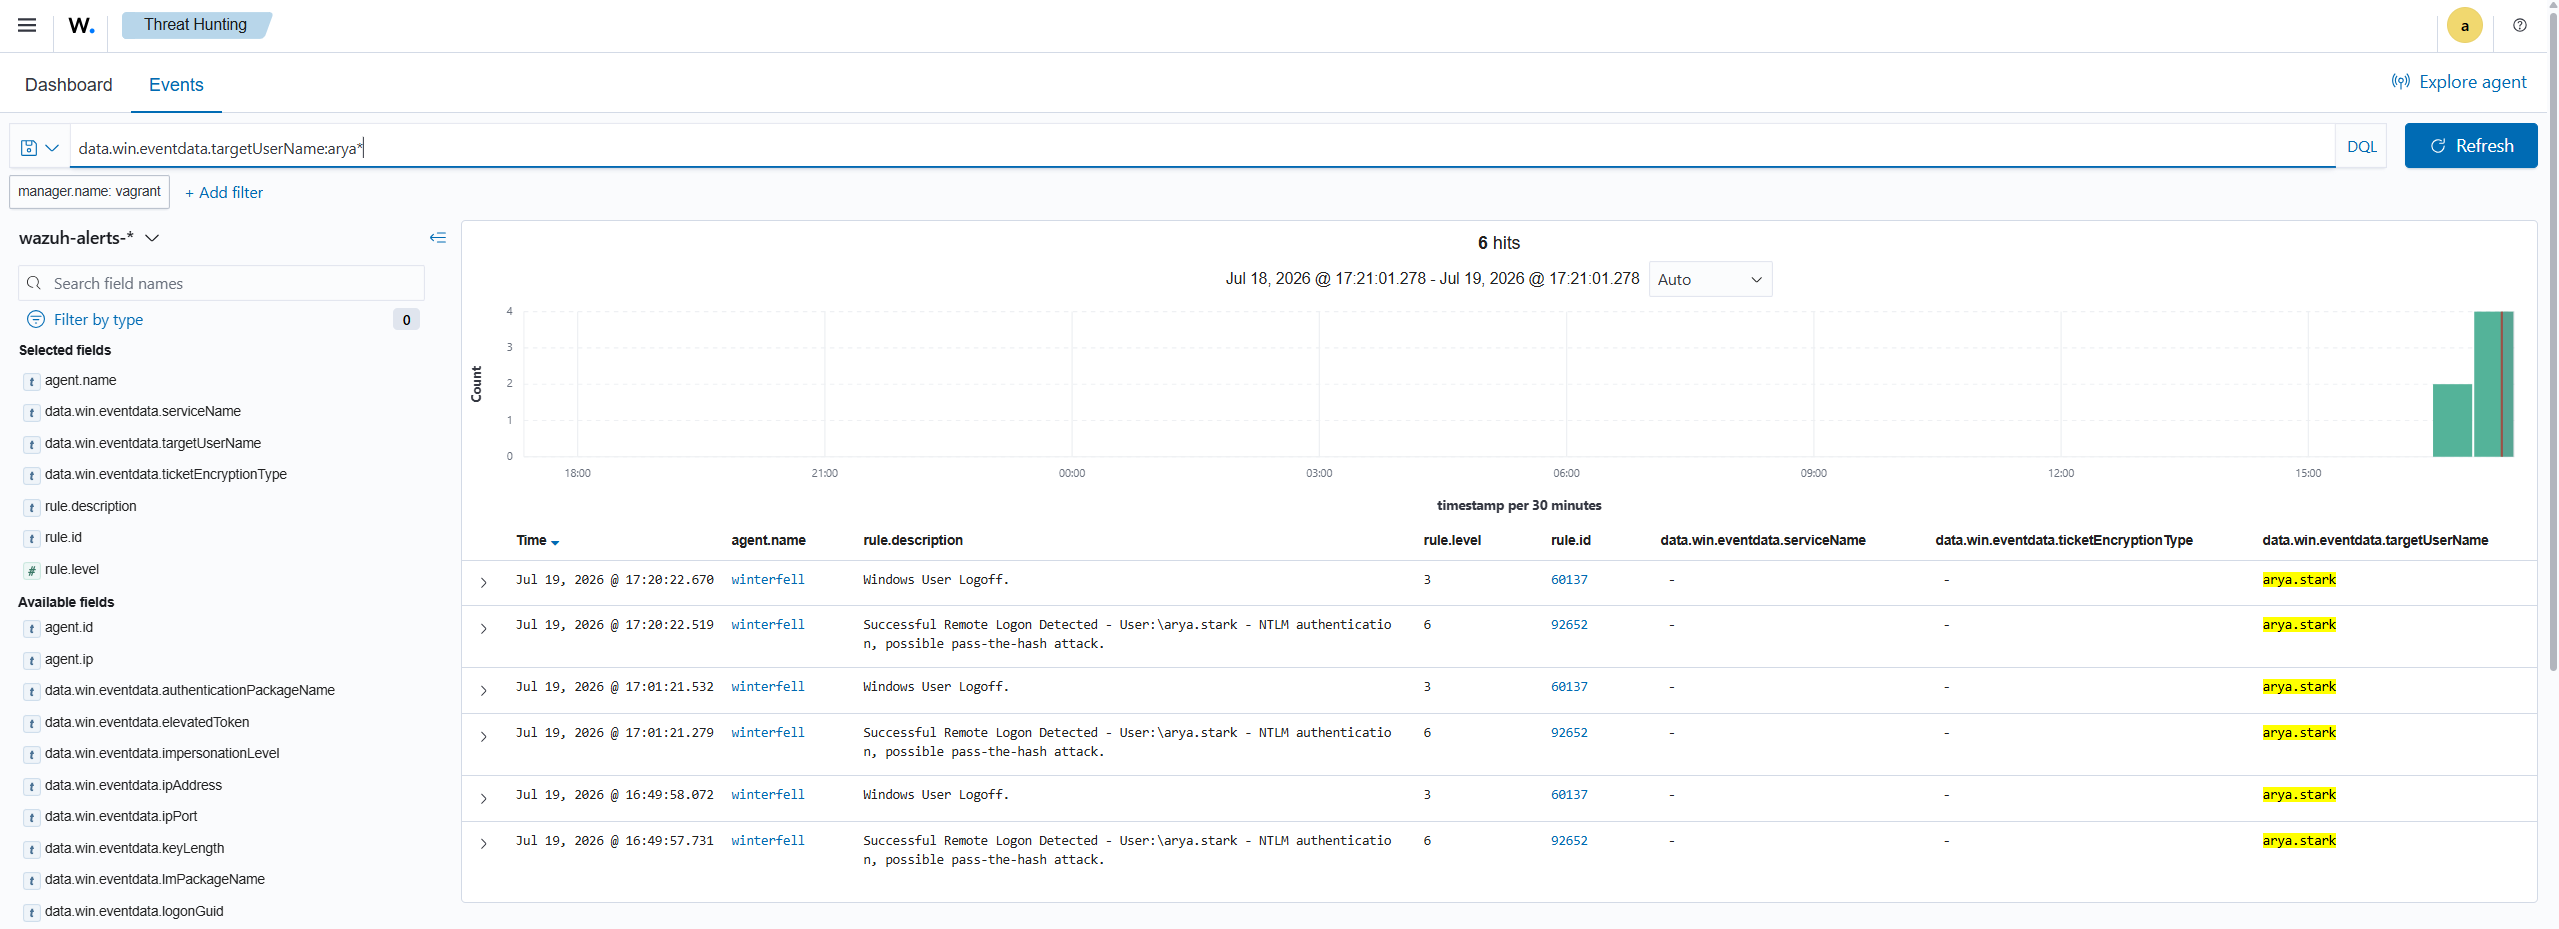
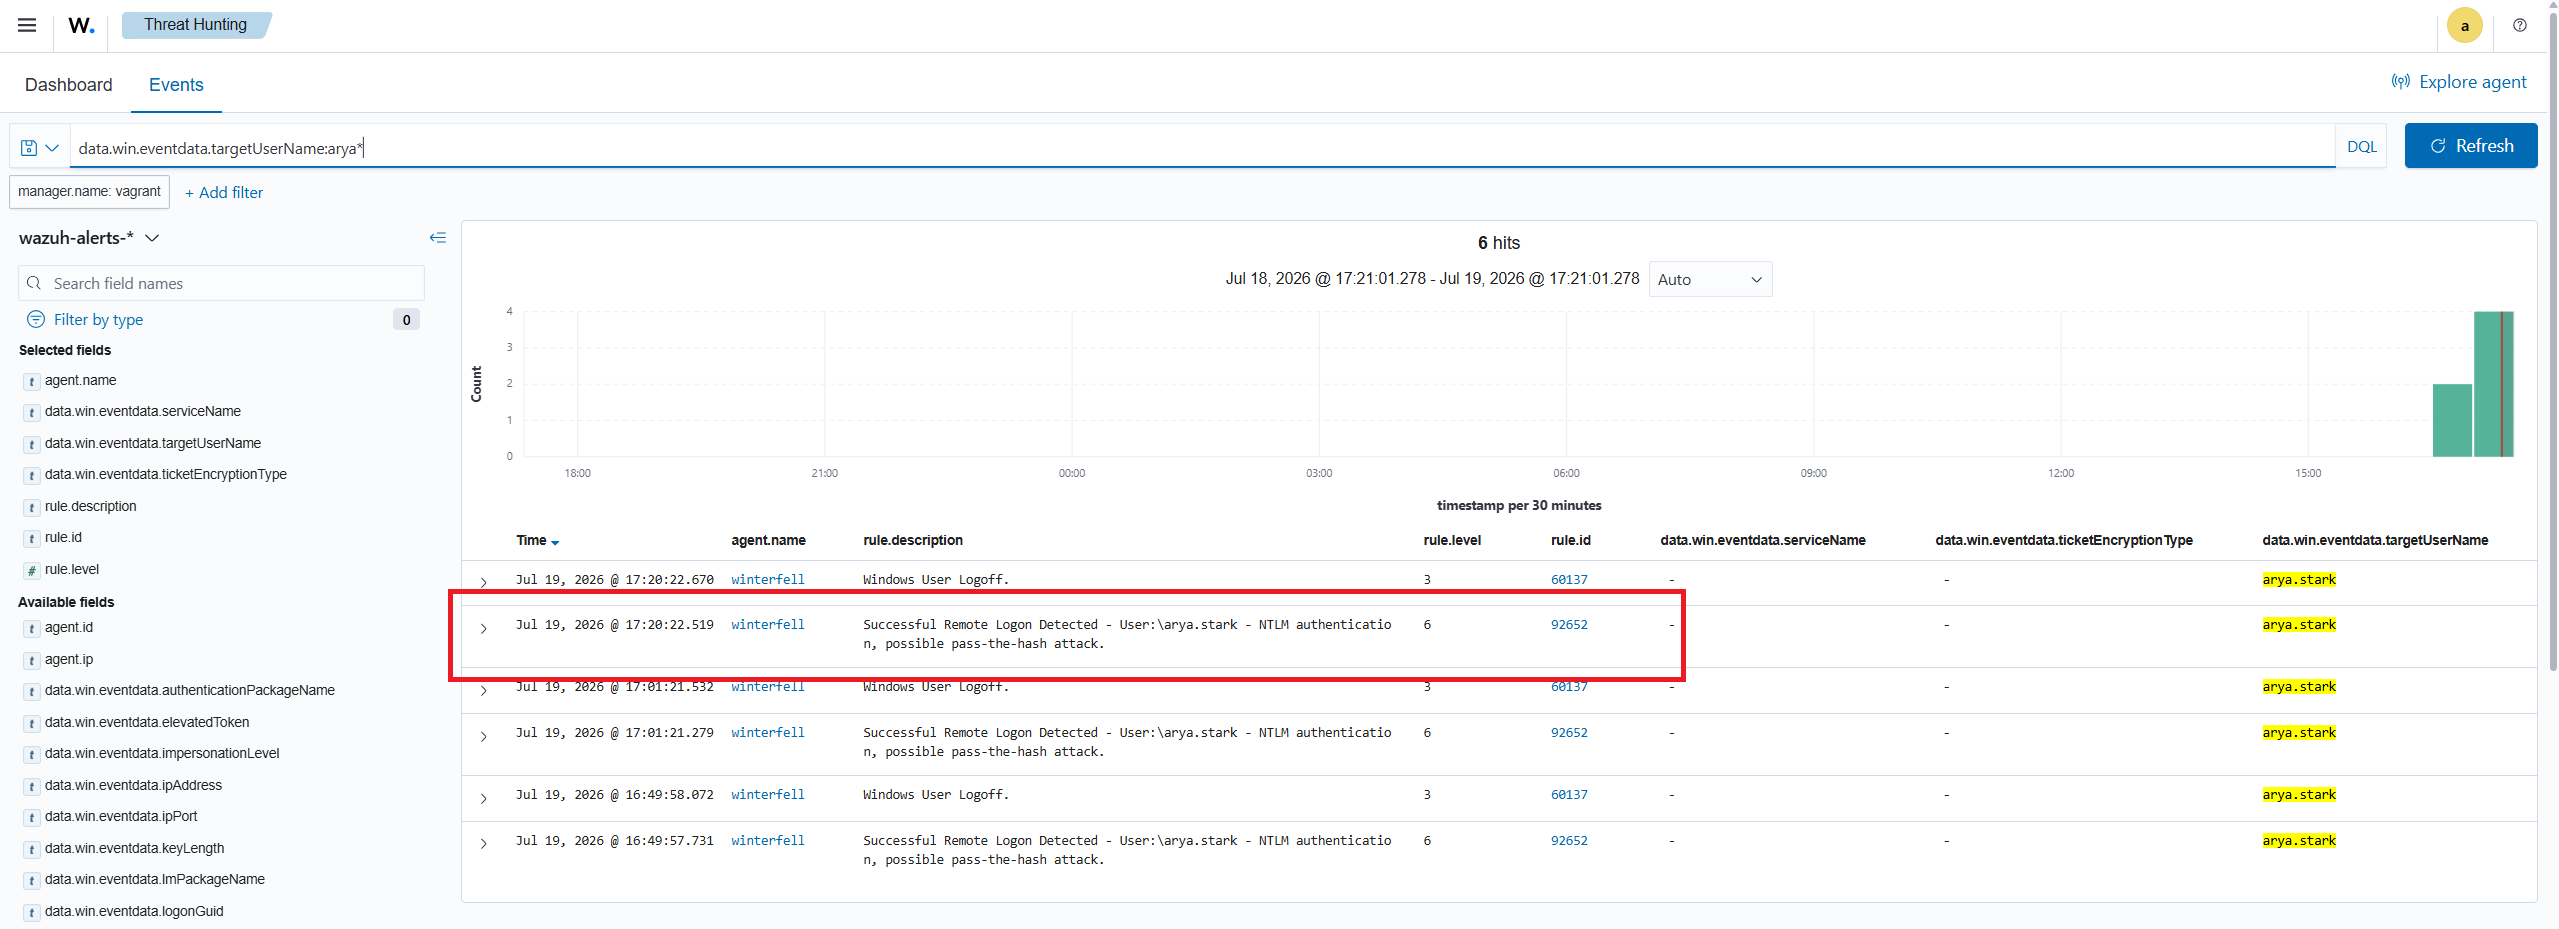
Add Phase 4 attack 02: AS-REP Roasting (detection blind spot)
- New simulation/attaques/02-asrep-roasting.md: AS-REP Roasting via impacket
  GetNPUsers against brandon.stark (DONT_REQ_PREAUTH). Documents a detection
  blind spot: no 4768 events reach Wazuh (Kerberos Auth Service audit not
  enabled), so the attack is invisible by default. Lesson + Phase 5 fix noted.
- Add attack-02 command screenshot; refresh attack-01 Wazuh screenshot.
- Update index: attack 02 = simulated, detection = blind spot.

Changed region(s): [[0.1852, 0.718, 0.6483, 0.7492], [0.1852, 0.6243, 0.6483, 0.6555]]

diff --git a/simulation/attaques/02-asrep-roasting.md b/simulation/attaques/02-asrep-roasting.md
@@ -1,0 +1,91 @@
+# ⚔ Attaque 02 — AS-REP Roasting
+
+| | |
+|---|---|
+| **Catégorie** | Credential Access |
+| **MITRE ATT&CK** | [T1558.004](https://attack.mitre.org/techniques/T1558/004/) |
+| **Fiche théorique** | [`../../docs/02-credential-access/`](../../docs/02-credential-access/) |
+| **Cible** | `north.sevenkingdoms.local` (DC02 / winterfell · 192.168.56.11) |
+| **Compte attaquant** | `arya.stark` (pour l'énumération) |
+| **Compte vulnérable** | `brandon.stark` (pré-authentification désactivée) |
+| **Statut détection Wazuh** | ⚠ **ANGLE MORT** — non détecté par défaut |
+
+---
+
+## 1. 🧠 Description (en clair)
+
+Normalement, pour obtenir son ticket d'entrée Kerberos (TGT), un compte doit d'abord **prouver qu'il connaît son mot de passe** : c'est la **pré-authentification** (il chiffre l'heure courante avec son mot de passe). Ce mécanisme est le "cadenas" qui empêche de demander des infos sur un compte sans le connaître.
+
+Certains comptes ont l'option **`DONT_REQ_PREAUTH`** activée → le cadenas saute. **N'importe qui, sans mot de passe**, peut alors demander leur TGT, et le contrôleur renvoie un message (**AS-REP**) contenant un bloc **chiffré avec le mot de passe du compte**. L'attaquant le récupère et le **crack hors-ligne**.
+
+> Différence avec le Kerberoasting : ici on ne cible pas des comptes de service (SPN), mais des comptes ayant **oublié le cadenas** — et l'attaque peut se faire **sans aucun identifiant**.
+
+---
+
+## 2. 💻 Exécution de l'attaque
+
+Outil impacket **`GetNPUsers.py`** (« NP » = *No Preauth*) :
+
+```bash
+GetNPUsers.py north.sevenkingdoms.local/arya.stark:Needle -dc-ip 192.168.56.11 -request
+```
+
+### Résultat
+Un compte vulnérable trouvé, hash extrait :
+
+| Compte | UAC | Indice |
+|--------|-----|--------|
+| `brandon.stark` | `0x410200` | le flag `0x400000` = **`DONT_REQ_PREAUTH`** (pré-auth désactivée) |
+
+Hash obtenu au format `$krb5asrep$23$...` → le **`23`** = **RC4** = crackable hors-ligne (`hashcat -m 18200`).
+
+![Exécution de l'AS-REP Roasting — compte brandon.stark et hash $krb5asrep$](../screenshots/attacks/attack-02-asrep-command.png)
+
+---
+
+## 3. 🛡 Détection dans Wazuh — ⚠ ANGLE MORT
+
+La signature propre de l'AS-REP Roasting est un **Event `4768`** (demande de TGT) avec **`preAuthType = 0`** (pas de cadenas). Recherche dans Wazuh :
+
+```
+data.win.system.eventID:4768
+```
+
+**Résultat : `No results match your search criteria`.** 
+
+→ Le DC **ne remonte AUCUN event `4768`** à Wazuh (à comparer aux `4769` qui, eux, remontent — 108 résultats). L'audit *"Kerberos Authentication Service"* n'est pas activé / non indexé.
+
+> 📸 *Capture à ajouter (`screenshots/attacks/attack-02-asrep-wazuh.png`) : la recherche `data.win.system.eventID:4768` renvoyant « No results match your search criteria » — preuve visuelle de l'angle mort. À prendre au prochain démarrage du lab.*
+
+### Et la connexion de l'attaquant ?
+On voit bien une alerte `rule 92652` (niveau 6, "possible pass-the-hash") pour `arya.stark`, **mais** :
+- elle n'est **pas spécifique** à l'AS-REP (c'est la même que pour le Kerberoasting) ;
+- elle n'apparaît **que parce qu'on a utilisé des identifiants** pour énumérer. Une AS-REP faite **sans identifiants** (juste une liste de noms) **ne laisserait aucune trace** ici.
+
+**Conclusion : avec la configuration actuelle, l'AS-REP Roasting est un angle mort de détection.**
+
+---
+
+## 4. 🎓 Analyse & leçon (point fort du mémoire)
+
+> **On ne peut pas détecter ce qu'on ne journalise pas.** La détection dépend d'abord d'une **politique d'audit correcte**, *avant même* d'écrire des règles.
+
+Cette attaque illustre une réalité SOC essentielle : un outil comme Wazuh est aveugle si les bons Event Logs Windows ne sont pas générés et collectés.
+
+---
+
+## 5. 🔧 Correction prévue (Phase 5)
+1. **Activer l'audit TGT** sur les DC :
+   ```
+   auditpol /set /subcategory:"Kerberos Authentication Service" /success:enable /failure:enable
+   ```
+2. **Écrire une règle Wazuh** qui alerte sur un `4768` avec `preAuthType = 0` (haute sévérité).
+3. Rejouer l'attaque → obtenir une **vraie alerte "AS-REP Roasting détecté"**.
+
+## 6. 🛡 Remédiation (côté défense de l'AD)
+- **Ne jamais** activer `DONT_REQ_PREAUTH` (auditer régulièrement les comptes qui l'ont).
+- Mots de passe forts sur ces comptes + désactiver RC4.
+
+---
+
+⬅ Retour à l'[index des attaques](../04-attaques-detection.md)

diff --git a/simulation/04-attaques-detection.md b/simulation/04-attaques-detection.md
@@ -10,7 +10,7 @@ Chaque attaque a **son propre fichier** dans [`attaques/`](attaques/), avec les 
 | # | Attaque | MITRE | Fiche | Simulée | Détectée Wazuh |
 |---|---------|-------|-------|:-------:|:--------------:|
 | 01 | Kerberoasting | T1558.003 | [`attaques/01-kerberoasting.md`](attaques/01-kerberoasting.md) | ✅ | ✅ (rule 92652) |
-| 02 | AS-REP Roasting | T1558.004 | *à venir* | ⬜ | ⬜ |
+| 02 | AS-REP Roasting | T1558.004 | [`attaques/02-asrep-roasting.md`](attaques/02-asrep-roasting.md) | ✅ | ⚠ angle mort (4768 non audité) |
 | 03 | DCSync | T1003.006 | *à venir* | ⬜ | ⬜ |
 | 04 | Password Spray | T1110.003 | *à venir* | ⬜ | ⬜ |
 
